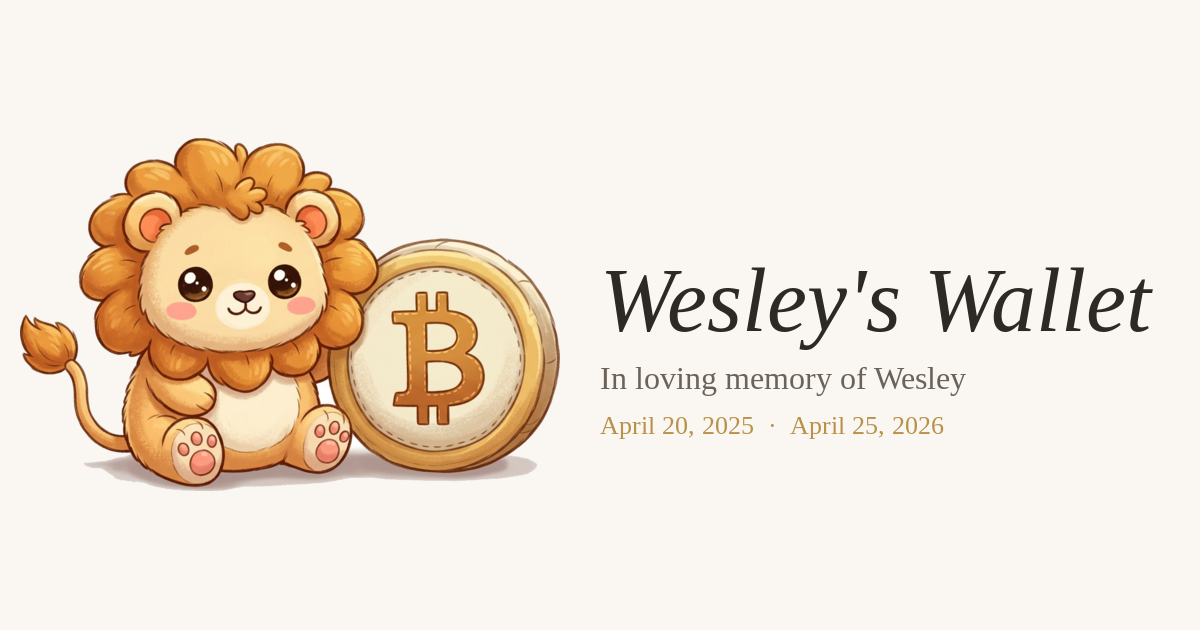
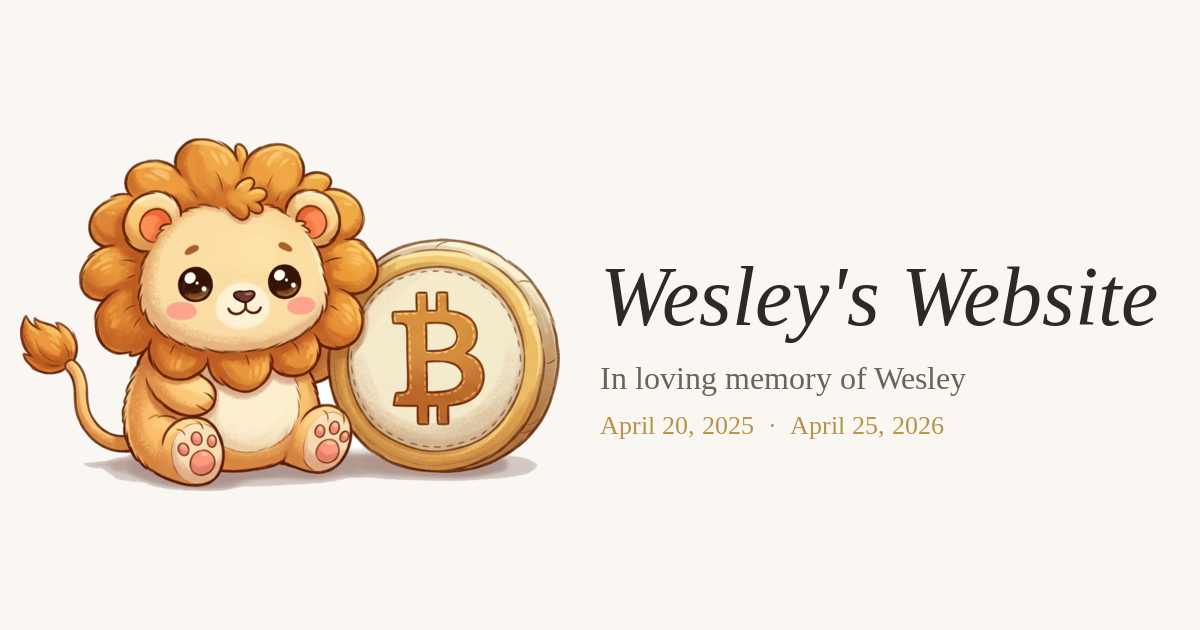
Rename site to Wesley's Website; wallet keeps its own section title
The hero wordmark, page title, and Open Graph / Twitter metadata now
say Wesley's Website, reflecting that the site is a full memorial
(story, photos, readings, candle, letters, memory wall) rather than
just the wallet. The wallet section further down the page keeps its
'Wesley's Wallet' heading. OG share-card image regenerated with the
new name baked in.

Changed region(s): [[0.4933, 0.4222, 0.9867, 0.573]]

diff --git a/index.html b/index.html
@@ -3,14 +3,14 @@
 <head>
     <meta charset="UTF-8" />
     <meta name="viewport" content="width=device-width, initial-scale=1.0" />
-    <title>Wesley's Wallet | In Loving Memory</title>
+    <title>Wesley's Website | In Loving Memory</title>
     <meta name="description" content="A memorial for Wesley. April 20, 2025 to April 25, 2026." />
     <link rel="icon" type="image/png" href="assets/logo.png" />
 
     <!-- Open Graph (iMessage, Facebook, LinkedIn, WhatsApp, Discord, etc.) -->
     <meta property="og:type" content="website" />
-    <meta property="og:site_name" content="Wesley's Wallet" />
-    <meta property="og:title" content="Wesley's Wallet | In Loving Memory" />
+    <meta property="og:site_name" content="Wesley's Website" />
+    <meta property="og:title" content="Wesley's Website | In Loving Memory" />
     <meta property="og:description" content="In loving memory of Wesley Robert Prisuta. A bitcoin wallet held in his name, to be passed to his siblings as a gift from their brother." />
     <meta property="og:image" content="https://payxdre.github.io/Wesley-s-Wallet/assets/og-image.png" />
     <meta property="og:image:width" content="1200" />
@@ -20,7 +20,7 @@
 
     <!-- Twitter / X card -->
     <meta name="twitter:card" content="summary_large_image" />
-    <meta name="twitter:title" content="Wesley's Wallet | In Loving Memory" />
+    <meta name="twitter:title" content="Wesley's Website | In Loving Memory" />
     <meta name="twitter:description" content="In loving memory of Wesley Robert Prisuta. A bitcoin wallet held in his name, for his siblings." />
     <meta name="twitter:image" content="https://payxdre.github.io/Wesley-s-Wallet/assets/og-image.png" />
     <link rel="preconnect" href="https://fonts.googleapis.com" />
@@ -79,7 +79,7 @@
             <div class="hero-photo" id="hero-photo" hidden>
                 <img id="hero-photo-img" alt="Wesley" />
             </div>
-            <p class="brand-mark">Wesley's Wallet</p>
+            <p class="brand-mark">Wesley's Website</p>
             <p class="eyebrow">In loving memory of</p>
             <h1 class="name">Wesley</h1>
             <p class="dates">
